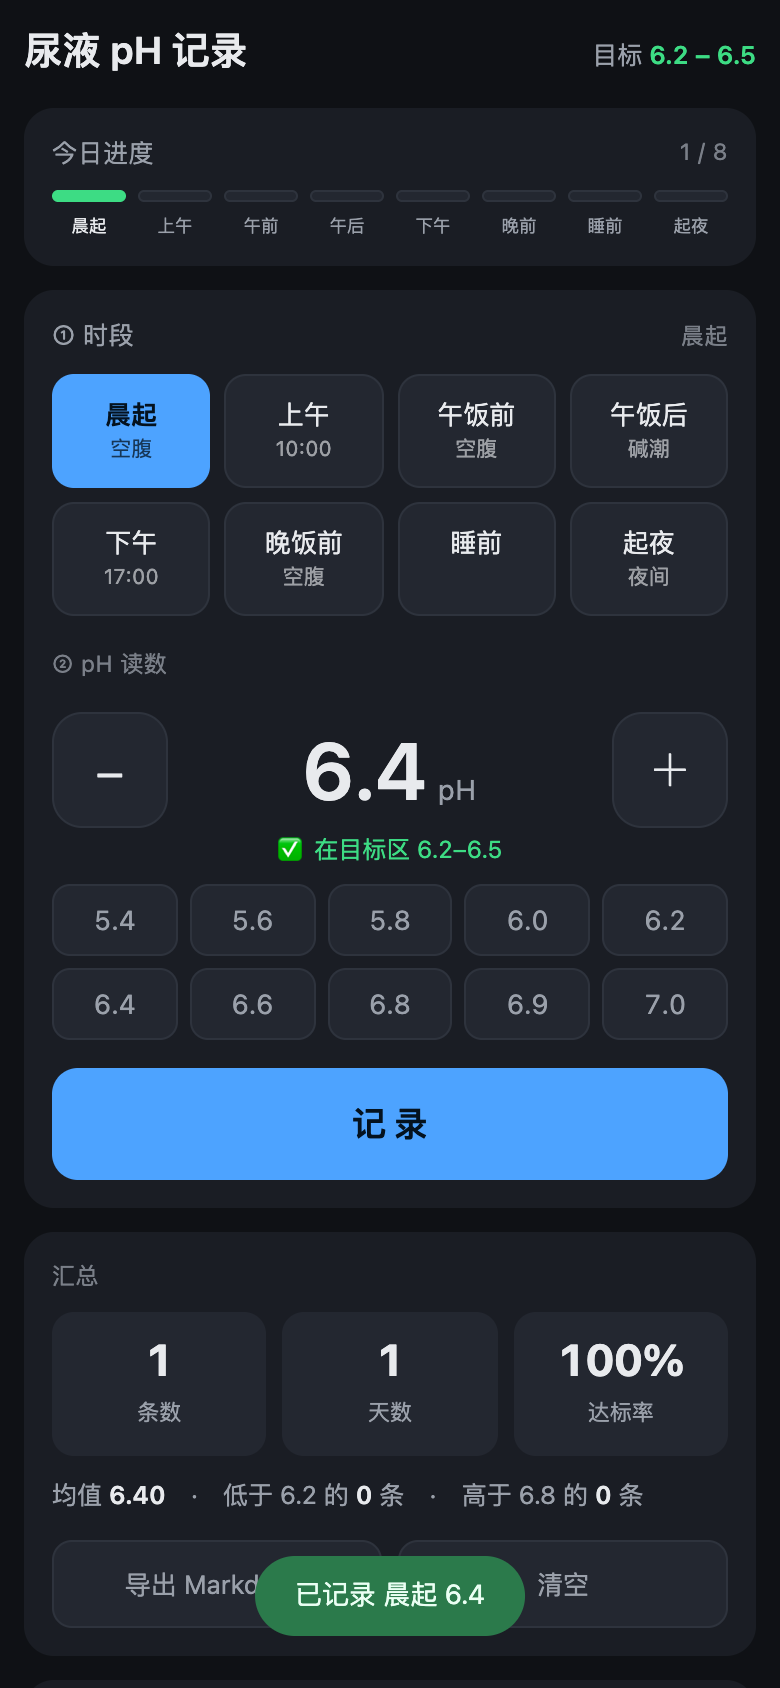
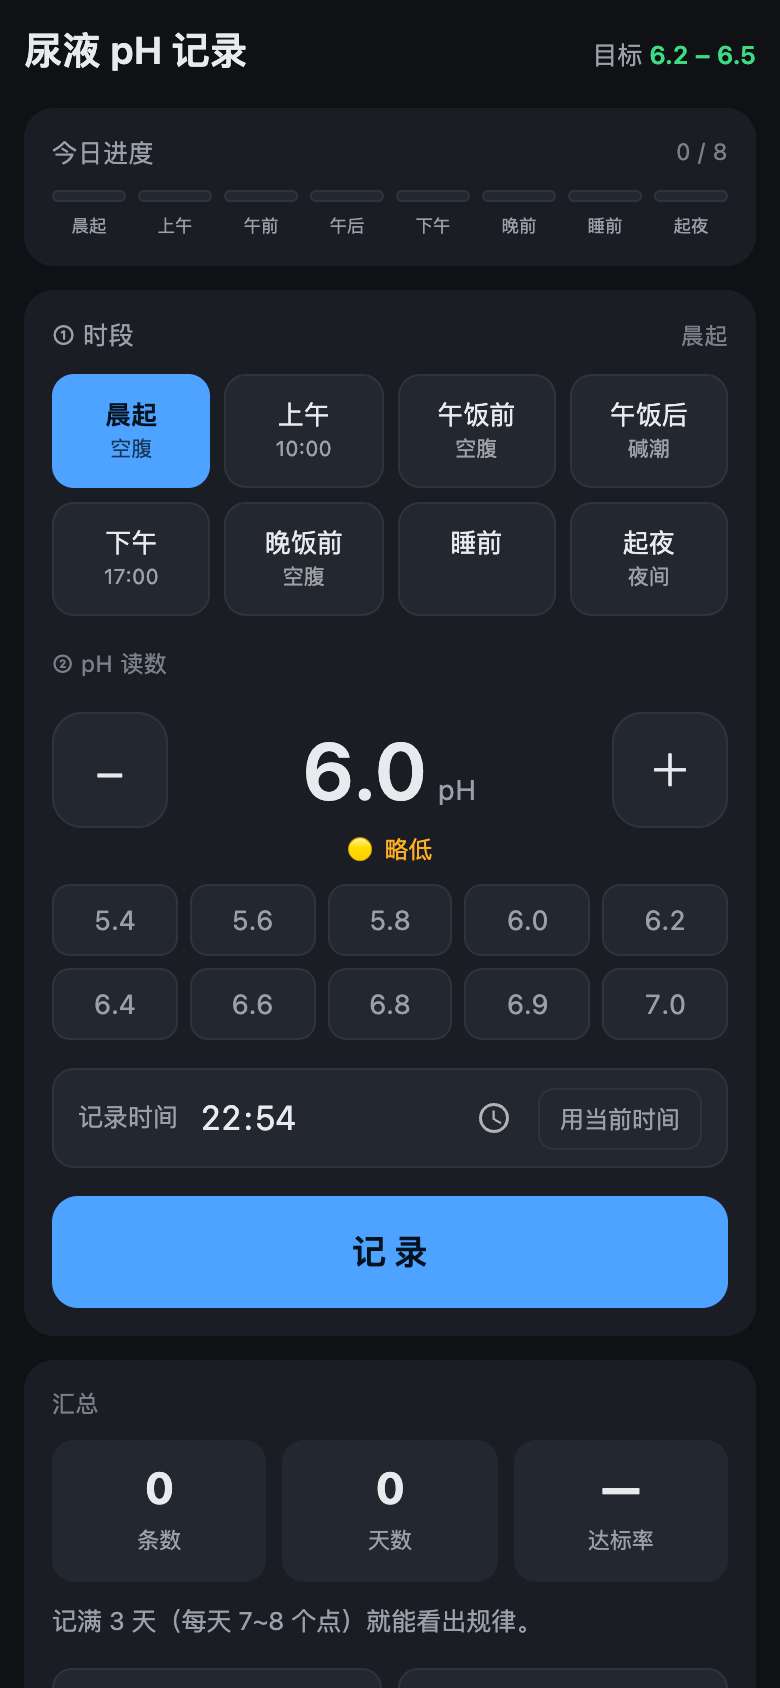
时段按时间自动选择；宽屏限制最大宽度居中

diff --git a/index.html b/index.html
@@ -26,7 +26,8 @@
   *{box-sizing:border-box; -webkit-tap-highlight-color:transparent;}
   html,body{height:100%;}
   body{
-    margin:0;
+    margin: 0 auto;
+    max-width: 560px;
     padding: calc(var(--safe-t) + 12px) 12px calc(var(--safe-b) + 24px);
     background:var(--bg); color:var(--fg);
     font-family:-apple-system,BlinkMacSystemFont,"PingFang SC","Helvetica Neue",sans-serif;
@@ -271,6 +272,7 @@
 
   var ph = 6.0;
   var seg = 'wake';
+  var manualSeg = false;   // 用户手动点过时段后，不再自动跟随时间
 
   var $ = function(id){ return document.getElementById(id); };
 
@@ -308,15 +310,62 @@
     d.dataset.key = s.key;
     d.innerHTML = s.name + '<small>' + (s.sub || '&nbsp;') + '</small>';
     d.addEventListener('click', function(){
-      seg = s.key;
-      Array.prototype.forEach.call(elChips.children, function(c){
-        c.classList.toggle('on', c.dataset.key === seg);
-      });
-      $('segNow').textContent = s.name;
+      manualSeg = true;          // 手动选过就不再自动跟随
+      applySeg(s.key);
     });
     elChips.appendChild(d);
   });
   $('segNow').textContent = segName(seg);
+
+  /* ---------- 按时间自动判断时段 ---------- */
+  // 起床~09:00 晨起 / 09:00~11:30 上午 / 11:30~13:00 午饭前 / 13:00~15:00 午饭后 /
+  // 15:00~18:00 下午 / 18:00~20:00 晚饭前 / 20:00~23:00 睡前 / 23:00~05:00 起夜
+  var SEG_RANGES = [
+    {key:'wake',    from: 5*60,      to: 9*60      },
+    {key:'am',      from: 9*60,      to: 11*60+30  },
+    {key:'lunchb',  from: 11*60+30,  to: 13*60     },
+    {key:'luncha',  from: 13*60,     to: 15*60     },
+    {key:'pm',      from: 15*60,     to: 18*60     },
+    {key:'dinnerb', from: 18*60,     to: 20*60     },
+    {key:'bed',     from: 20*60,     to: 23*60     },
+    {key:'night',   from: 23*60,     to: 5*60      }
+  ];
+
+  function minutesOf(tv){
+    if (!/^\d{1,2}:\d{2}$/.test(tv || '')) return null;
+    var p = tv.split(':');
+    var h = parseInt(p[0], 10), m = parseInt(p[1], 10);
+    if (isNaN(h) || isNaN(m) || h > 23 || m > 59) return null;
+    return h * 60 + m;
+  }
+
+  function segForMinutes(min){
+    if (min === null) return null;
+    for (var i = 0; i < SEG_RANGES.length; i++){
+      var r = SEG_RANGES[i];
+      if (r.from < r.to){
+        if (min >= r.from && min < r.to) return r.key;
+      } else {
+        if (min >= r.from || min < r.to) return r.key;   // 跨午夜
+      }
+    }
+    return null;
+  }
+
+  function applySeg(key){
+    if (!key) return;
+    seg = key;
+    Array.prototype.forEach.call(elChips.children, function(c){
+      c.classList.toggle('on', c.dataset.key === seg);
+    });
+    $('segNow').textContent = segName(seg);
+  }
+
+  function autoSegFromTime(){
+    if (manualSeg) return;
+    var k = segForMinutes(minutesOf($('timeInput').value));
+    if (k) applySeg(k);
+  }
 
   /* ---------- 界面：pH 输入 ---------- */
   var elPh = $('phVal');
@@ -447,12 +496,24 @@
   function setNow(){
     var n = new Date();
     timeInput.value = pad(n.getHours()) + ':' + pad(n.getMinutes());
+    autoSegFromTime();          // 时段跟着时间走
   }
-  $('nowBtn').addEventListener('click', setNow);
+  timeInput.addEventListener('change', autoSegFromTime);
+  timeInput.addEventListener('input',  autoSegFromTime);
+
+  $('nowBtn').addEventListener('click', function(){
+    manualSeg = false;          // 回到"自动跟随"
+    setNow();
+  });
+
   setNow();
-  // 每次回到前台，若用户没动过时间，自动刷新为当前时间
+
+  // 回到前台时刷新为当前时间（用户没在编辑时间框里的话）
   document.addEventListener('visibilitychange', function(){
-    if (!document.hidden && document.activeElement !== timeInput) setNow();
+    if (!document.hidden && document.activeElement !== timeInput){
+      manualSeg = false;
+      setNow();
+    }
   });
 
   /* ---------- 记录 ---------- */
@@ -473,6 +534,7 @@
 
     day = dayKey(now);
     var timeStr = pad(now.getHours()) + ':' + pad(now.getMinutes());
+    var recSegLabel = segName(seg);        // 先存下要写的时段名，后面重算不影响提示
     var arr = load();
 
     // 同一时段当天已记过 → 询问是否替换，避免手滑重复
@@ -492,8 +554,9 @@
     });
     save(arr);
     render();
+    manualSeg = false;
     setNow();
-    toast((dup.length ? '已替换 ' : '已记录 ') + timeStr + ' ' + segName(seg) + ' ' + ph.toFixed(1));
+    toast((dup.length ? '已替换 ' : '已记录 ') + timeStr + ' ' + recSegLabel + ' ' + ph.toFixed(1));
     if (navigator.vibrate) navigator.vibrate(18);
   });
 

diff --git a/sw.js b/sw.js
@@ -1,6 +1,6 @@
 /* 尿液 pH 记录 — Service Worker
    改动 index.html / 图标后，把 VERSION 加 1，用户端会自动更新缓存 */
-const VERSION = 'ph-v5';
+const VERSION = 'ph-v6';
 const CACHE = VERSION;
 
 const ASSETS = [
